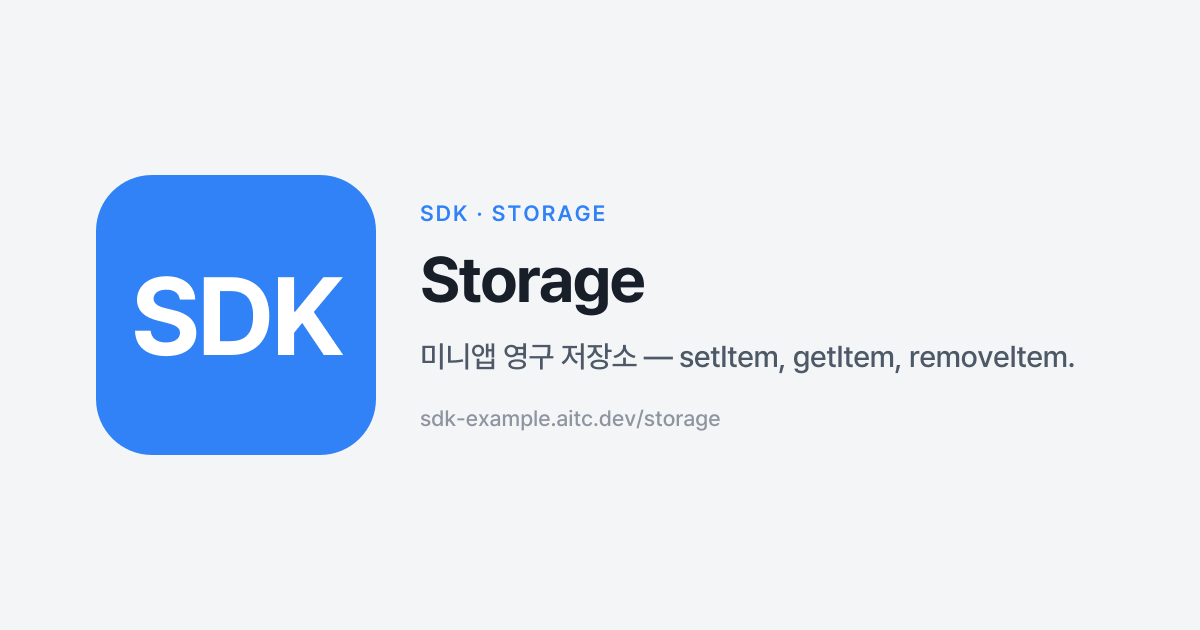
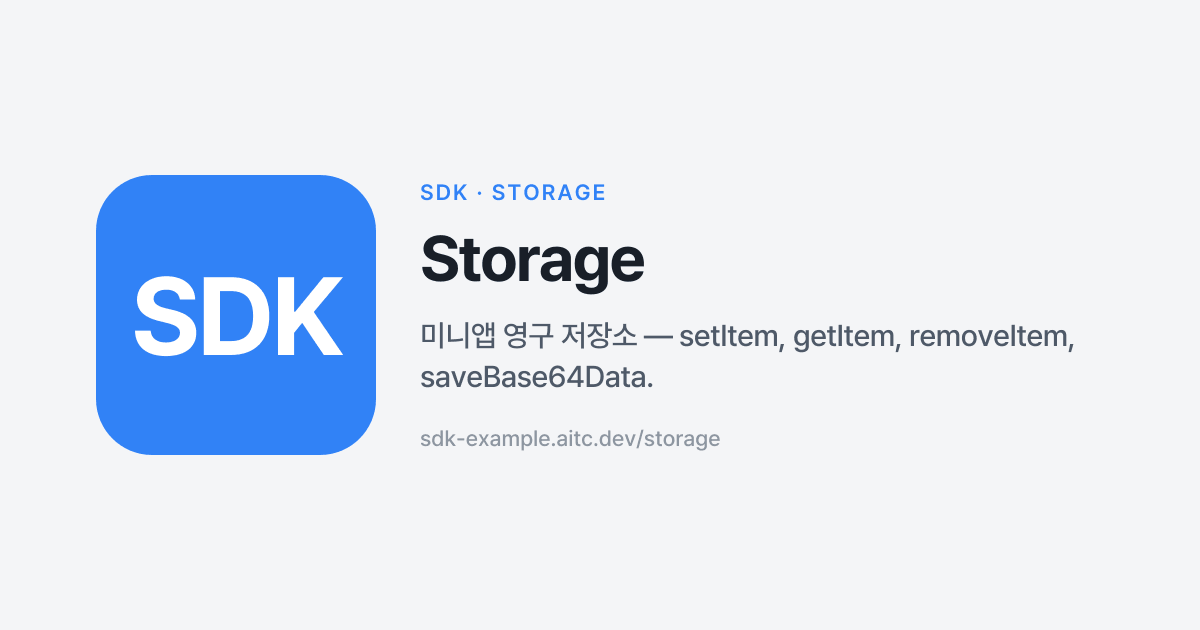
refactor(pages): move saveBase64Data from Haptic to Storage
saveBase64Data는 파일/사진 저장 API로 햅틱과 무관하므로 Storage 도메인으로 재분류.

- HapticPage에서 saveBase64Data ApiCard 제거
- StoragePage에 saveBase64Data ApiCard 추가
- 스니펫 파일 src/snippets/haptic/ → src/snippets/storage/ 이동
- i18n 키 pages.haptic.saveBase64Data → pages.storage.saveBase64Data (ko/en)
- og/manifest 두 도메인 subtitle 갱신 (haptic/storage OG 이미지 자동 재생성)
- HomePage domains entry description/apis 양쪽 동기화
- README.md(sync:readme로 재생성) + README.en.md 수동 갱신

Changed region(s): [[0.3392, 0.2714, 0.8942, 0.7238]]

diff --git a/src/pages/HapticPage.tsx b/src/pages/HapticPage.tsx
@@ -1,13 +1,11 @@
 import type { HapticFeedbackType } from '@apps-in-toss/web-framework';
-import { generateHapticFeedback, saveBase64Data } from '@apps-in-toss/web-framework';
-import { ApiCard } from '../components/ApiCard';
+import { generateHapticFeedback } from '@apps-in-toss/web-framework';
 import { PageHeader } from '../components/PageHeader';
 import { PolyfillNotice } from '../components/PolyfillNotice';
 import { PolyfillToggleCard } from '../components/PolyfillToggleCard';
 import { t } from '../i18n';
 import generateHapticFeedbackSnippet from '../snippets/haptic/generateHapticFeedback.ts?raw';
 import navigatorVibrateSnippet from '../snippets/haptic/navigatorVibrate.ts?raw';
-import saveBase64DataSnippet from '../snippets/haptic/saveBase64Data.ts?raw';
 
 const hapticOptions: { label: string; value: HapticFeedbackType }[] = [
   { label: 'tickWeak', value: 'tickWeak' },
@@ -75,35 +73,6 @@ export function HapticPage() {
             },
             snippet: navigatorVibrateSnippet,
           }}
-        />
-
-        <ApiCard
-          name="saveBase64Data"
-          description={t('pages.haptic.saveBase64Data.description')}
-          params={[
-            {
-              name: 'data',
-              label: 'Base64 Data',
-              placeholder: 'SGVsbG8=',
-              defaultValue: 'SGVsbG8=',
-            },
-            {
-              name: 'fileName',
-              label: 'File Name',
-              placeholder: 'test.txt',
-              defaultValue: 'test.txt',
-            },
-            {
-              name: 'mimeType',
-              label: 'MIME Type',
-              placeholder: 'text/plain',
-              defaultValue: 'text/plain',
-            },
-          ]}
-          execute={async (p) => {
-            await saveBase64Data({ data: p.data, fileName: p.fileName, mimeType: p.mimeType });
-          }}
-          snippet={saveBase64DataSnippet}
         />
       </div>
     </div>

diff --git a/src/pages/StoragePage.tsx b/src/pages/StoragePage.tsx
@@ -1,4 +1,4 @@
-import { Storage } from '@apps-in-toss/web-framework';
+import { Storage, saveBase64Data } from '@apps-in-toss/web-framework';
 import { ApiCard } from '../components/ApiCard';
 import { PageHeader } from '../components/PageHeader';
 import { t } from '../i18n';
@@ -6,6 +6,7 @@ import { docsLink } from '../lib/docs';
 import clearItemsSnippet from '../snippets/storage/clearItems.ts?raw';
 import getItemSnippet from '../snippets/storage/getItem.ts?raw';
 import removeItemSnippet from '../snippets/storage/removeItem.ts?raw';
+import saveBase64DataSnippet from '../snippets/storage/saveBase64Data.ts?raw';
 import setItemSnippet from '../snippets/storage/setItem.ts?raw';
 
 export function StoragePage() {
@@ -53,6 +54,34 @@ export function StoragePage() {
           }}
           snippet={clearItemsSnippet}
           docsUrl={docsLink('storage', 'clearItems')}
+        />
+        <ApiCard
+          name="saveBase64Data"
+          description={t('pages.storage.saveBase64Data.description')}
+          params={[
+            {
+              name: 'data',
+              label: 'Base64 Data',
+              placeholder: 'SGVsbG8=',
+              defaultValue: 'SGVsbG8=',
+            },
+            {
+              name: 'fileName',
+              label: 'File Name',
+              placeholder: 'test.txt',
+              defaultValue: 'test.txt',
+            },
+            {
+              name: 'mimeType',
+              label: 'MIME Type',
+              placeholder: 'text/plain',
+              defaultValue: 'text/plain',
+            },
+          ]}
+          execute={async (p) => {
+            await saveBase64Data({ data: p.data, fileName: p.fileName, mimeType: p.mimeType });
+          }}
+          snippet={saveBase64DataSnippet}
         />
       </div>
     </div>

diff --git a/src/pages/HomePage.tsx b/src/pages/HomePage.tsx
@@ -61,8 +61,8 @@ const domains = [
   {
     path: '/storage',
     name: 'Storage',
-    description: 'setItem, getItem, removeItem 등',
-    apis: ['setItem', 'getItem', 'removeItem', 'clearItems'],
+    description: 'setItem, getItem, removeItem, saveBase64Data 등',
+    apis: ['setItem', 'getItem', 'removeItem', 'clearItems', 'saveBase64Data'],
   },
   {
     path: '/location',
@@ -86,8 +86,8 @@ const domains = [
   {
     path: '/haptic',
     name: 'Haptic',
-    description: 'generateHapticFeedback, saveBase64Data',
-    apis: ['generateHapticFeedback', 'saveBase64Data'],
+    description: 'generateHapticFeedback',
+    apis: ['generateHapticFeedback'],
   },
   {
     path: '/iap',

diff --git a/src/og/manifest.ts b/src/og/manifest.ts
@@ -82,7 +82,7 @@ export const GROUP_ENTRIES: OgEntry[] = [
     route: '/storage',
     eyebrow: 'SDK · Storage',
     title: 'Storage',
-    subtitle: '미니앱 영구 저장소 — setItem, getItem, removeItem.',
+    subtitle: '미니앱 영구 저장소 — setItem, getItem, removeItem, saveBase64Data.',
     footer: `${SITE}/storage`,
   },
   {
@@ -122,7 +122,7 @@ export const GROUP_ENTRIES: OgEntry[] = [
     route: '/haptic',
     eyebrow: 'SDK · Haptic',
     title: 'Haptic',
-    subtitle: 'generateHapticFeedback, saveBase64Data.',
+    subtitle: 'generateHapticFeedback.',
     footer: `${SITE}/haptic`,
   },
   {

diff --git a/src/i18n/en.ts b/src/i18n/en.ts
@@ -164,7 +164,6 @@ export const en: Record<StringKey, string> = {
   'pages.haptic.generateHapticFeedback.description': 'SDK — generate haptic feedback',
   'pages.haptic.navigatorVibrate.description':
     'Standard Web API (via @ait-co/polyfill) — pattern in ms; comma-separated values produce vibrate/pause sequences.',
-  'pages.haptic.saveBase64Data.description': 'SDK — save Base64 data',
 
   // CameraPage
   'pages.camera.openCamera.description': 'Open camera',
@@ -183,6 +182,7 @@ export const en: Record<StringKey, string> = {
   'pages.storage.getItem.description': 'Retrieve a value',
   'pages.storage.removeItem.description': 'Delete a value',
   'pages.storage.clearItems.description': 'Delete all values',
+  'pages.storage.saveBase64Data.description': 'SDK — save Base64 data',
 
   // AnalyticsPage
   'pages.analytics.screen.description': 'Screen view log',

diff --git a/src/i18n/ko.ts b/src/i18n/ko.ts
@@ -162,7 +162,6 @@ export const ko = {
   'pages.haptic.generateHapticFeedback.description': 'SDK — 햅틱 피드백 생성',
   'pages.haptic.navigatorVibrate.description':
     '표준 Web API (via @ait-co/polyfill) — ms 단위 pattern. 쉼표로 구분하면 vibrate/pause 시퀀스.',
-  'pages.haptic.saveBase64Data.description': 'SDK — Base64 데이터 저장',
 
   // CameraPage
   'pages.camera.openCamera.description': '카메라 열기',
@@ -181,6 +180,7 @@ export const ko = {
   'pages.storage.getItem.description': '값 조회',
   'pages.storage.removeItem.description': '값 삭제',
   'pages.storage.clearItems.description': '전체 삭제',
+  'pages.storage.saveBase64Data.description': 'SDK — Base64 데이터 저장',
 
   // AnalyticsPage
   'pages.analytics.screen.description': '화면 조회 로그',

diff --git a/README.en.md b/README.en.md
@@ -20,12 +20,12 @@ A reference app for interactively testing all public APIs of the [`@apps-in-toss
 | `/navigation` | Navigation | closeView, openURL, share, etc. | 9 |
 | `/environment` | Environment | getPlatformOS, getNetworkStatus, etc. | 14 |
 | `/permissions` | Permissions | getPermission, openPermissionDialog, etc. | 3 |
-| `/storage` | Storage | setItem, getItem, removeItem, etc. | 4 |
+| `/storage` | Storage | setItem, getItem, removeItem, saveBase64Data, etc. | 5 |
 | `/location` | Location | getCurrentLocation, startUpdateLocation | 2 |
 | `/camera` | Camera & Photos | openCamera, fetchAlbumPhotos | 2 |
 | `/contacts` | Contacts | fetchContacts | 1 |
 | `/clipboard` | Clipboard | getClipboardText, setClipboardText | 2 |
-| `/haptic` | Haptic | generateHapticFeedback, saveBase64Data | 2 |
+| `/haptic` | Haptic | generateHapticFeedback | 1 |
 | `/iap` | IAP | product listing, purchase, order management | 7 |
 | `/ads` | Ads | GoogleAdMob, TossAds, FullScreenAd | 10 |
 | `/game` | Game | game center, promotions, contactsViral | 6 |

diff --git a/README.md b/README.md
@@ -20,12 +20,12 @@
 | `/navigation` | Navigation | closeView, openURL, share 등 | 9 |
 | `/environment` | Environment | getPlatformOS, getNetworkStatus 등 | 14 |
 | `/permissions` | Permissions | getPermission, openPermissionDialog 등 | 3 |
-| `/storage` | Storage | setItem, getItem, removeItem 등 | 4 |
+| `/storage` | Storage | setItem, getItem, removeItem, saveBase64Data 등 | 5 |
 | `/location` | Location | getCurrentLocation, startUpdateLocation | 2 |
 | `/camera` | Camera & Photos | openCamera, fetchAlbumPhotos | 2 |
 | `/contacts` | Contacts | fetchContacts | 1 |
 | `/clipboard` | Clipboard | getClipboardText, setClipboardText | 2 |
-| `/haptic` | Haptic | generateHapticFeedback, saveBase64Data | 2 |
+| `/haptic` | Haptic | generateHapticFeedback | 1 |
 | `/iap` | IAP | 상품 조회, 구매, 주문 관리 | 7 |
 | `/ads` | Ads | GoogleAdMob, TossAds, FullScreenAd | 10 |
 | `/game` | Game | 게임센터, 프로모션, contactsViral | 6 |